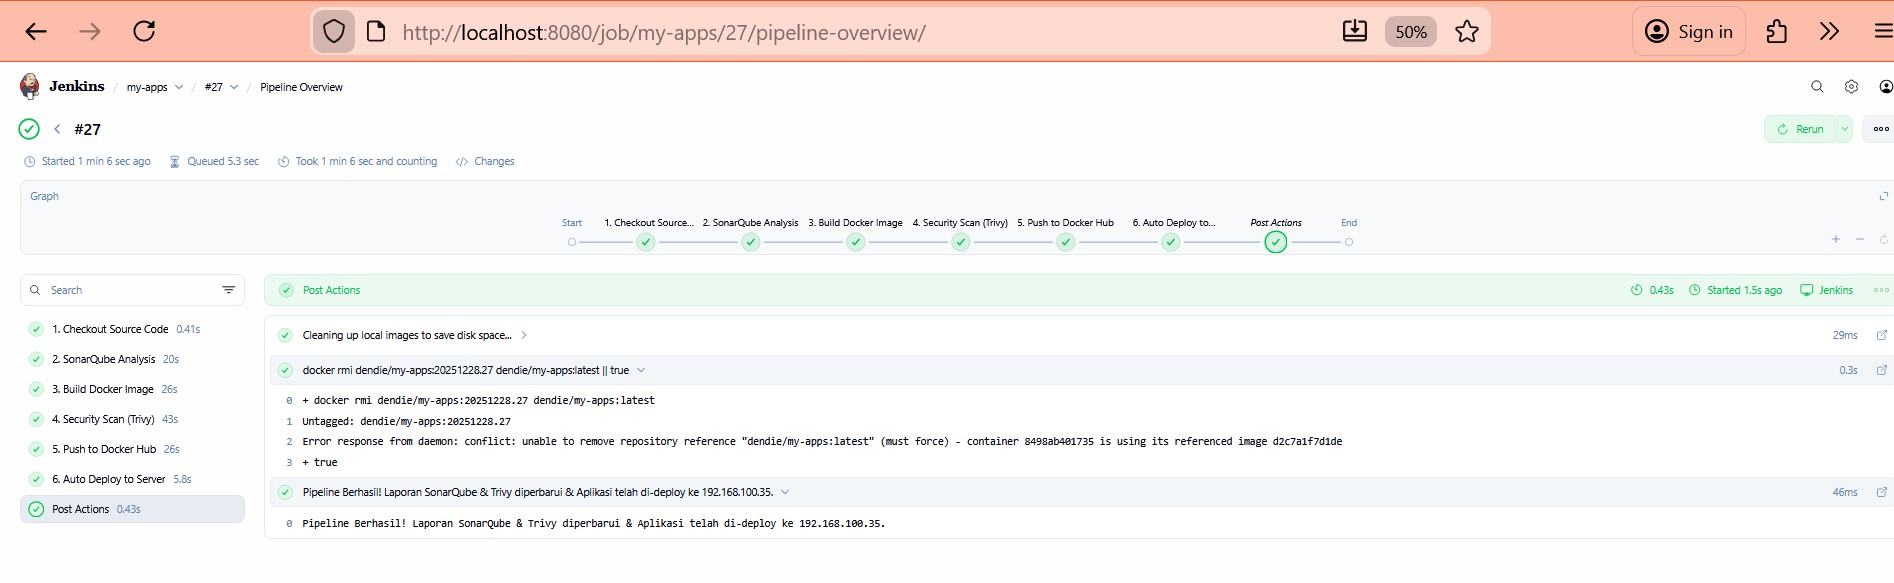
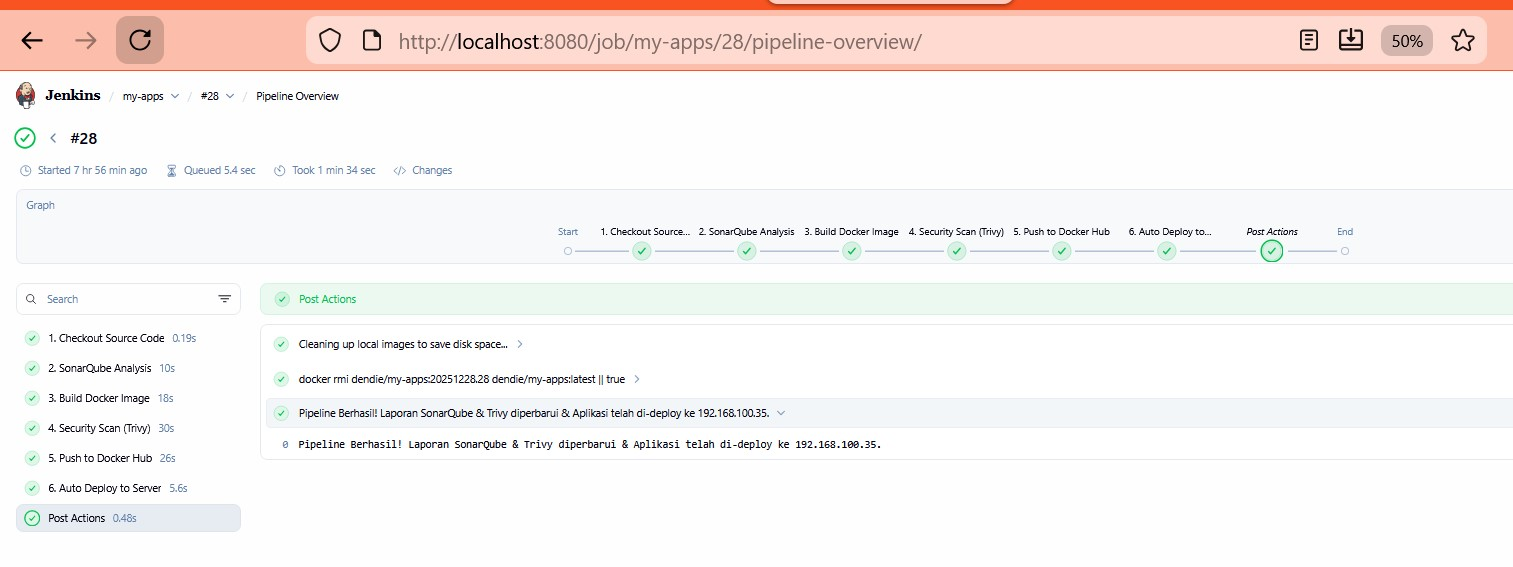
fix: fixing screen shoot

diff --git a/readme.md b/readme.md
@@ -298,18 +298,22 @@ This section explains how to create a CI/CD pipeline from start to finish.
 ![Pipeline 1](./ss/pipeline-1.jpg)
 ![Pipeline 2](./ss/pipeline-2.jpg)
 ![Pipeline 3](./ss/pipeline-3.jpg)
+![Pipeline 3](./ss/pipeline-4.jpg)
+![Pipeline 3](./ss/pipeline-6.jpg)
 
 ### 15.2 Trigger Configuration
 
-![Trigger 1](./ss/pipeline-3.jpg)
-![Trigger 2](./ss/pipeline-4.jpg)
+![Pipeline 1](./ss/pipeline-1.jpg)
+![Pipeline 2](./ss/pipeline-2.jpg)
+![Pipeline 3](./ss/pipeline-3.jpg)
+![Trigger 1](./ss/pipeline-4.jpg)
+![Trigger 2](./ss/pipeline-5.jpg)
 
 ### 15.3 Jenkinsfile
 
 **This is jenkis fie pipeline:**
 
 ![Jenkinsfile](./Jenkinsfile.groovy)
-
 
 ![Pipeline Script](./ss/pipeline-6.jpg)
 
